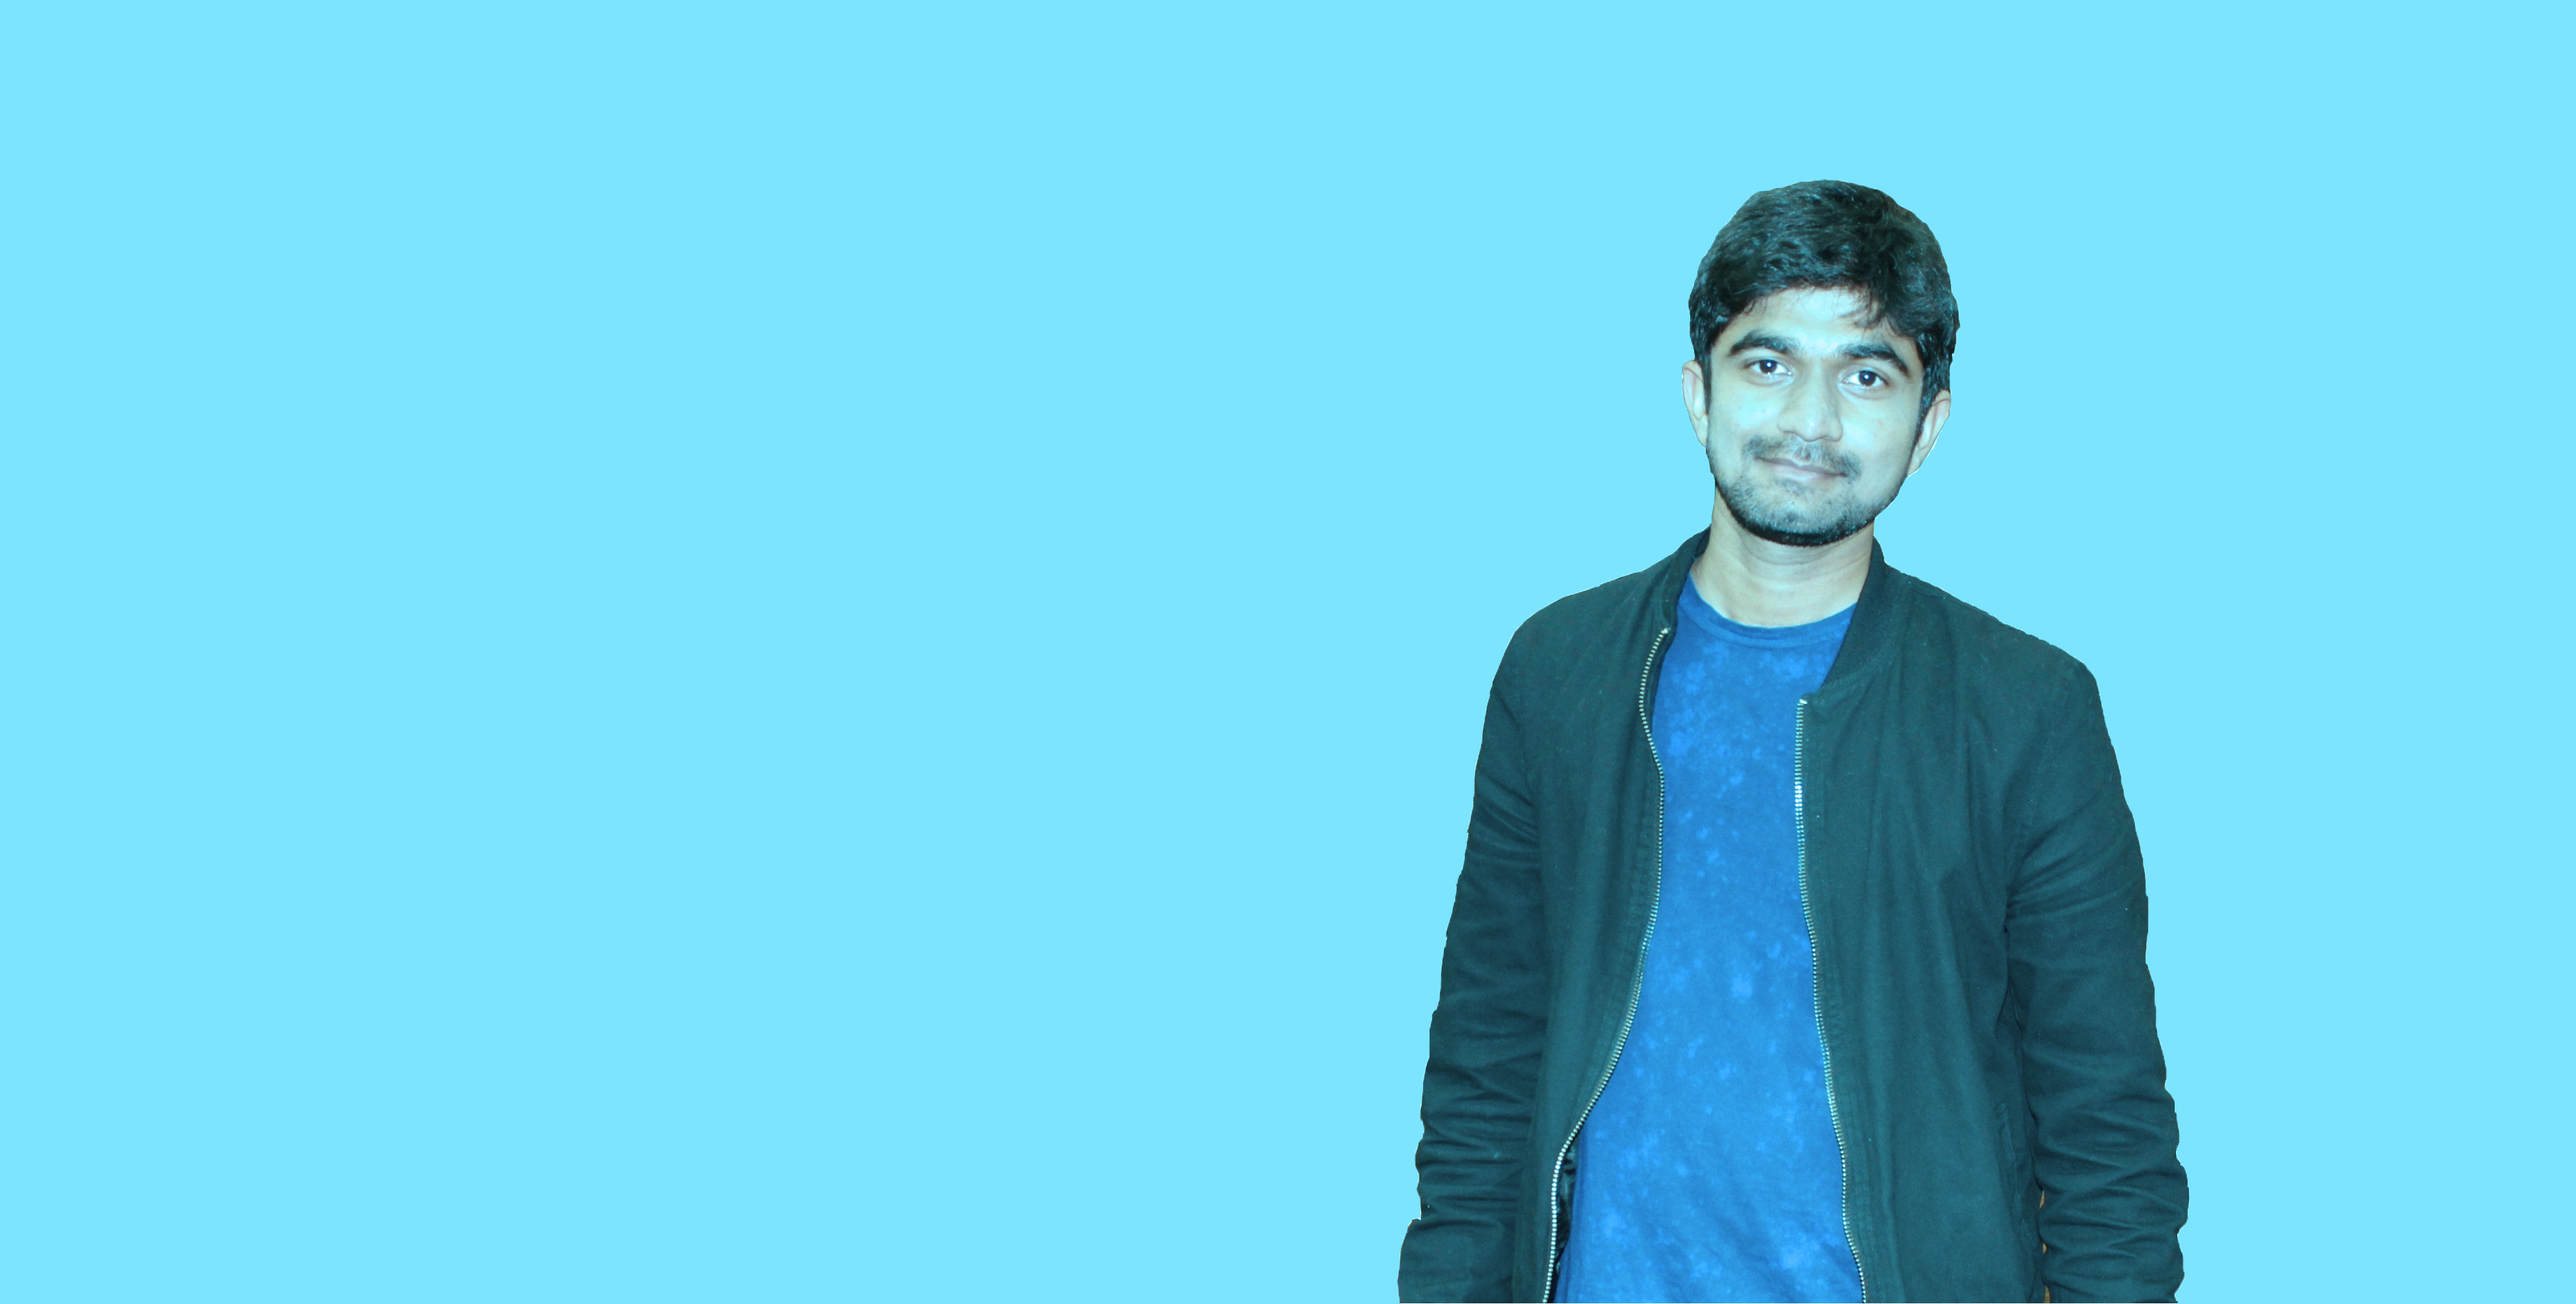
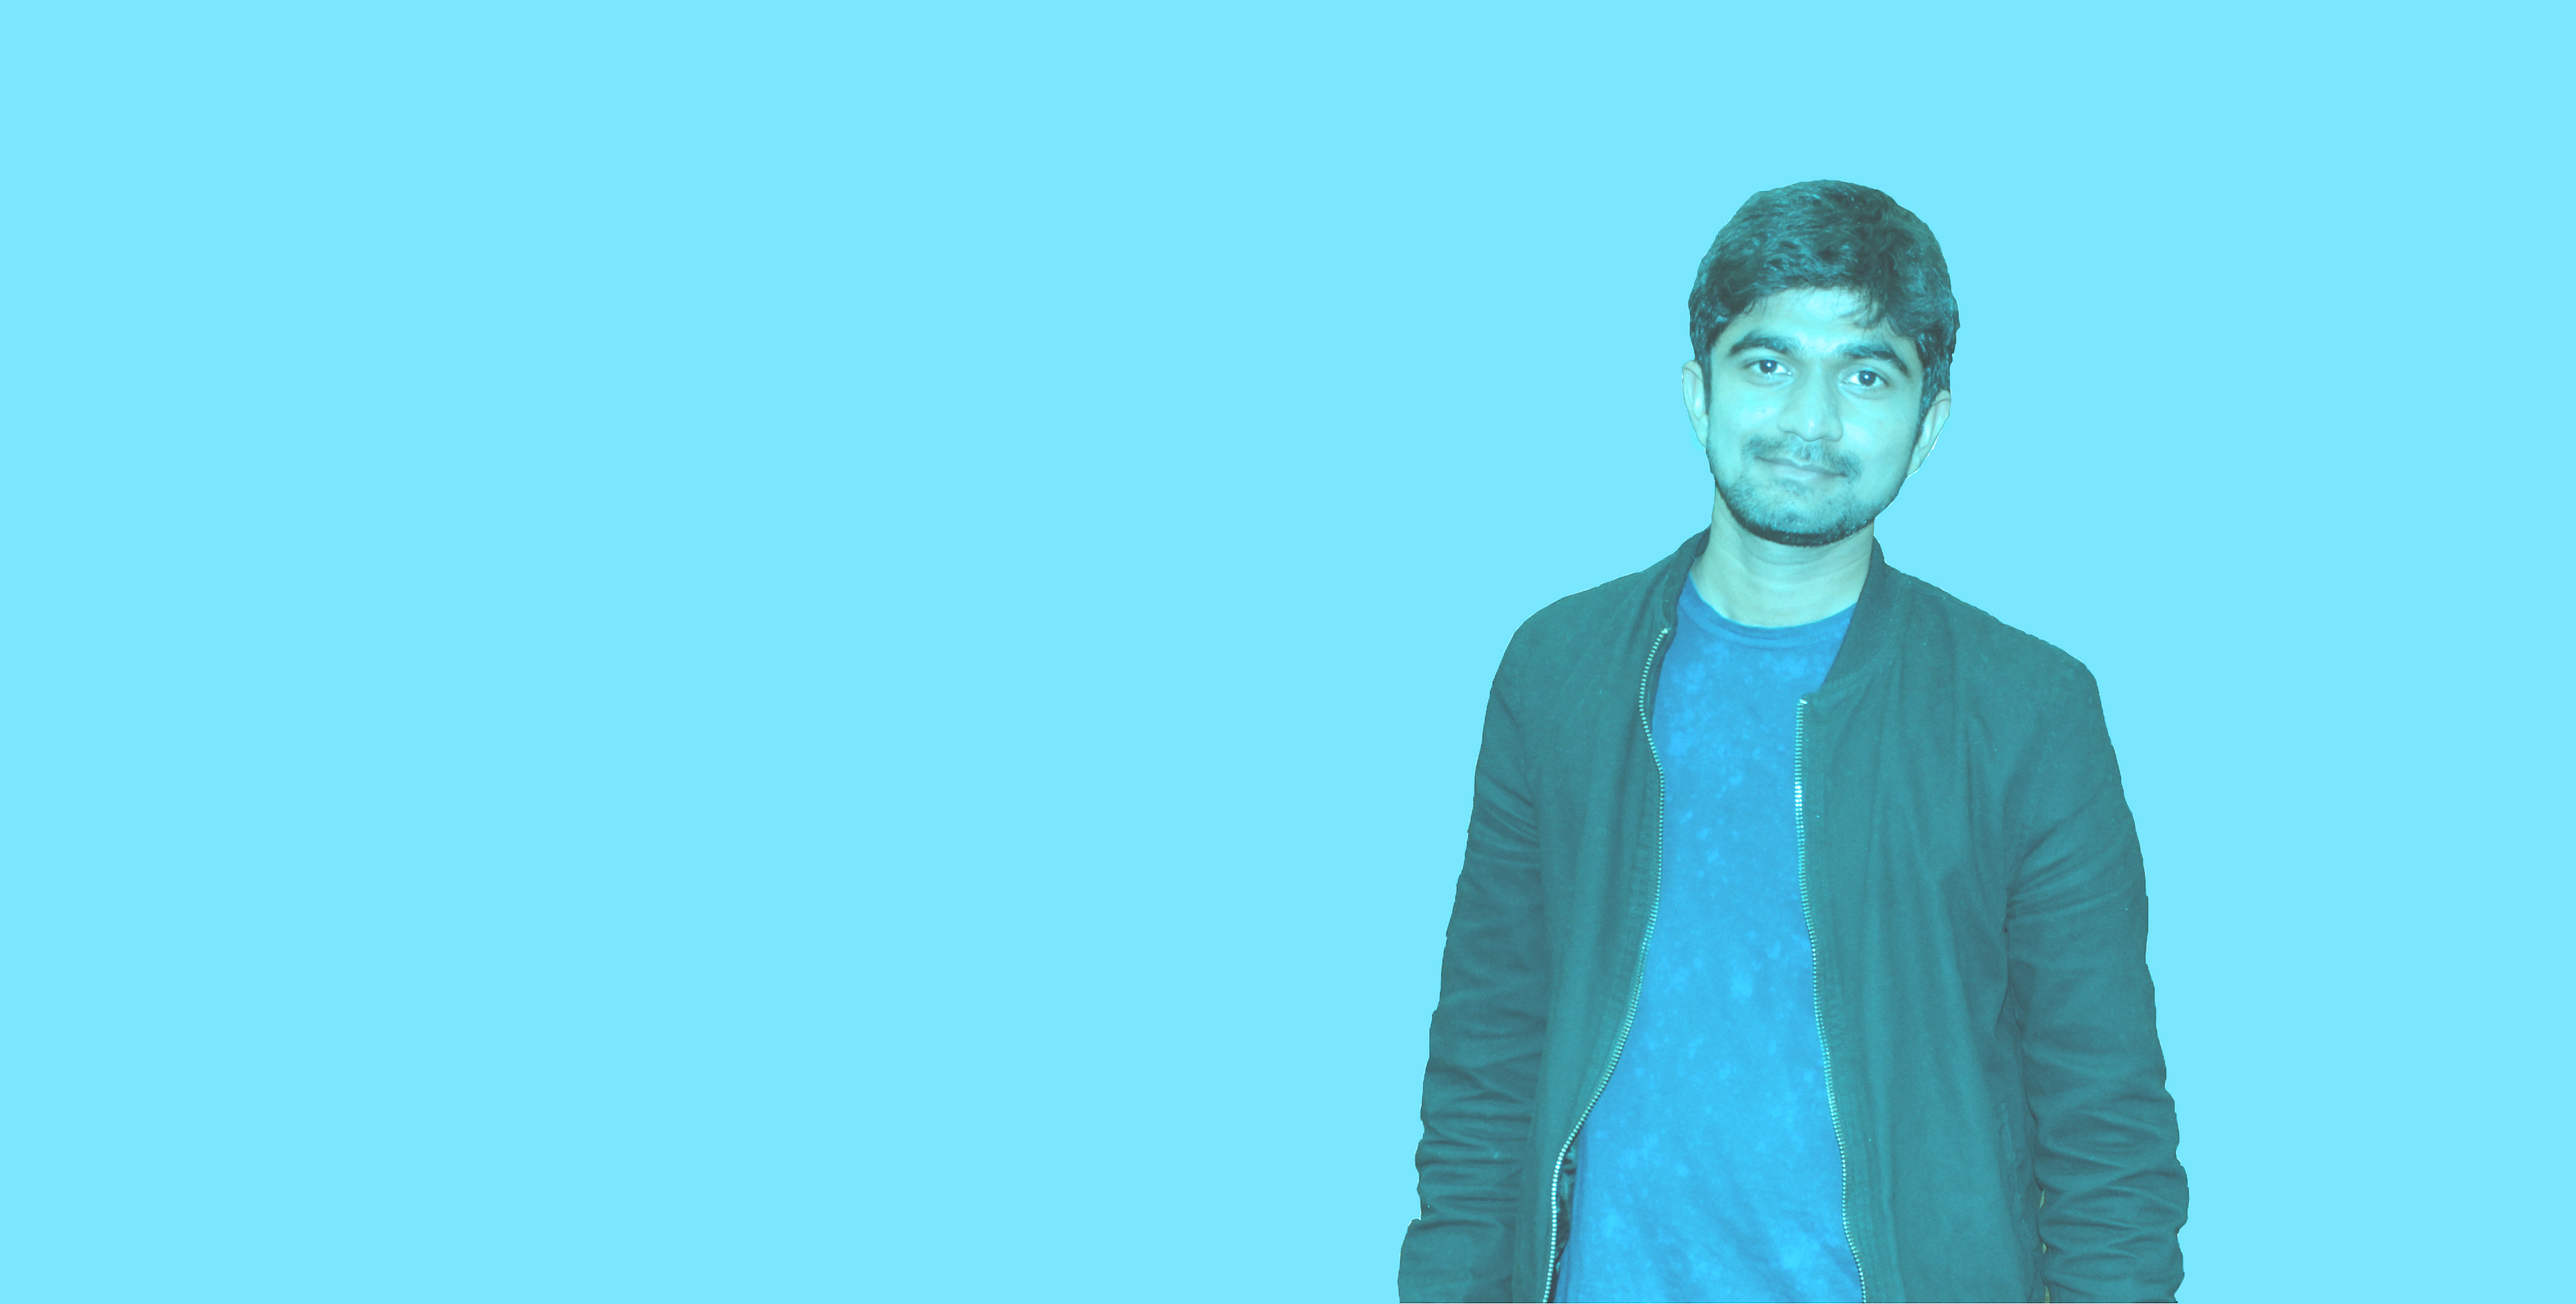
edits
scroll fadeout of text on landing page and image edit of landing page

Changed region(s): [[0.5271, 0.1244, 0.8682, 1.0]]

diff --git a/style.css b/style.css
@@ -3,14 +3,7 @@
 	margin: 0px;
 	padding: 0px;
 	}
-	/*.content {
-		height: 770px;
-		width: 100%;
-		margin-top: -5px;
-		background-color:#7156C0;
-		position: relative;
-		z-index: 1;
-	}*/
+	
 	#image {
 		position: relative;
 	z-index: -1;
@@ -21,7 +14,7 @@
 	.content1 {
 		height: 770px;
 		width: 100%;
-		margin-top: -5px;
+		margin-top: -50px;
 		background-color:#4dbbac;
 		position: relative;
 		z-index: 1;
@@ -50,4 +43,27 @@
 		position: relative;
 		z-index: 1;
 	}
+
+	
+
+h2 { 
+   position: absolute; 
+   top: 200px; 
+   left: 0; 
+   width: 100%; 
+}
+.BodyContainer{
+    position: relative;
+    z-index: 1;
+    margin-top: -500px;
+    padding-bottom: 40px;
+    padding-left: 400px;
+}
+.hero-unit p {
+  font-size: 60px;
+  letter-spacing: -1px;
+  margin-bottom: 400px;
+  color: #ffffff;
+  font-family: verdana;
+}
 	

diff --git a/index.html b/index.html
@@ -2,13 +2,22 @@
 <html>
 <head>
 <title>HOME</title>
+<link rel="shortcut icon" type="image/x-icon" href="img/favicon.ico" />
+<script src="https://ajax.googleapis.com/ajax/libs/jquery/3.1.0/jquery.min.js"></script>
 <script src="script.js"></script>
+<script src="scroll.js"></script>
 <link rel="stylesheet" href="style.css" type="text/css" media="screen">
+
 </head>
 
 <body>
+<div class="hero-unit">
+      
+<div> <img id="image" src="img/image.jpg" /> </div>
+  <p class="BodyContainer" id="indexname">i'm Kranthi<br>a full stack web developer</p>
+ </div>
 
-<img id="image" src="img/image.jpg" />
+
 <div class="content1" ></div>
 <div class="content2" ></div>
 <div class="content3" ></div>

diff --git a/scroll.js b/scroll.js
@@ -1,0 +1,10 @@
+$("#indexname").next().height($("#indexname").height())
+$(window).scroll(function() {
+    var scrollTop = window.pageYOffset || document.documentElement.scrollTop;
+    if (scrollTop > 100) {
+        $('p').css('opacity',0);
+    }
+    else {
+        $('p').css('opacity',1-scrollTop/100);
+    }
+}).scroll()

diff --git a/script.js b/script.js
@@ -7,4 +7,6 @@
 	}
 	window.addEventListener('scroll', parallex),false;
 
+	
+
 
